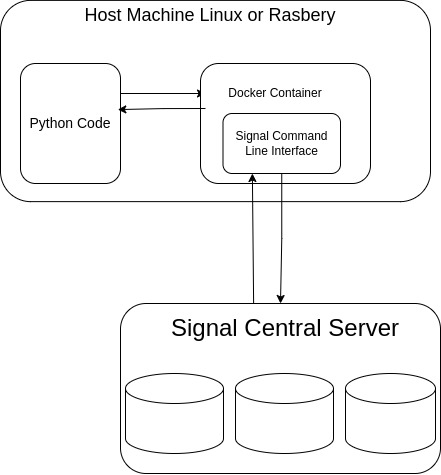
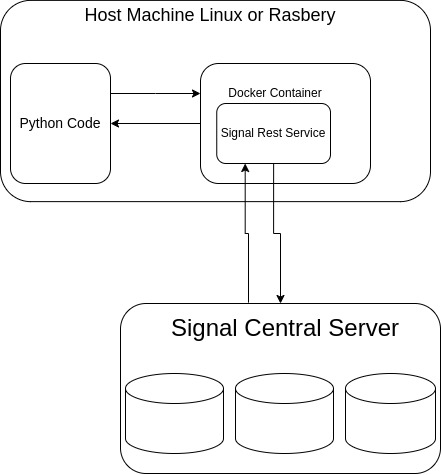
init

diff --git a/README.md b/README.md
@@ -1,7 +1,9 @@
 # python-signal-bot
 
 ## System 
-
 ![Alt text](diagrams/system.jpg?raw=true "Select Diagram")
 
-
+1) Register a new signal Account if not already there 
+2) Connect the Signal Account that you are planning to use for the signal bot with the desktop-application 
+  Verification Step 
+3) Configure the Signal-Account for the Dockerized Signal Messenger REST API [link](https://github.com/bbernhard/signal-cli-rest-api)
